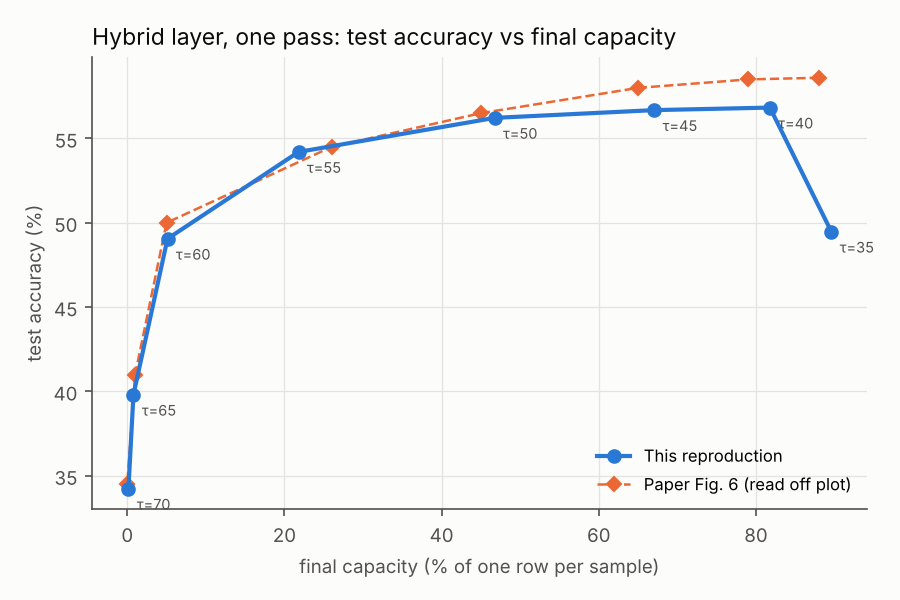
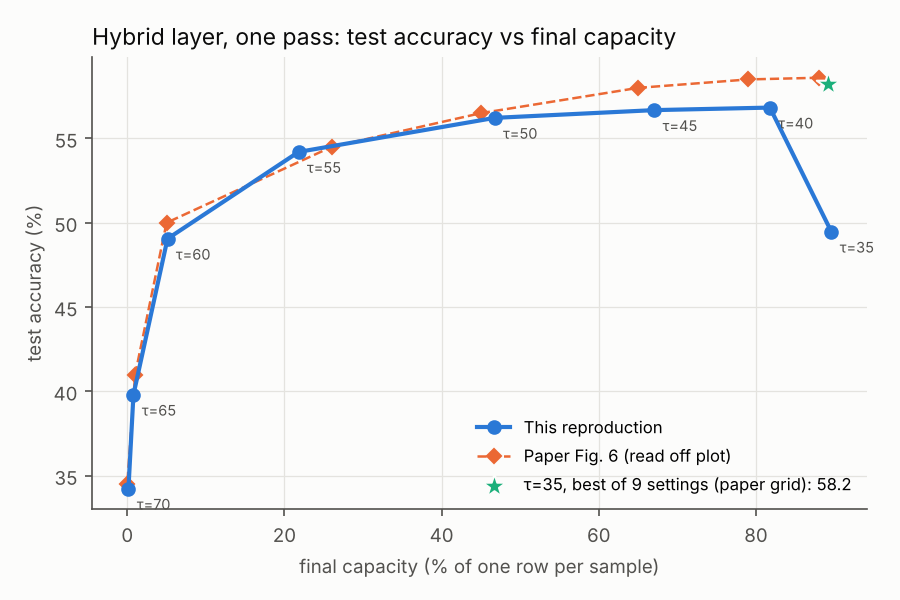
Figures: DeltaNet curves, L = 2 GWS at 50 epochs, tuned tau = 35 point
Claude-Session: https://claude.ai/code/session_01RLNGfWX7myMbpBLDNmpMEp

Changed region(s): [[0.5289, 0.75, 0.9644, 0.84], [0.5289, 0.69, 0.7467, 0.72], [0.9022, 0.12, 0.9333, 0.15]]

diff --git a/experiments/plots.py b/experiments/plots.py
@@ -218,8 +218,9 @@ def fig_hybrid(runs, out):
 
 
 def fig_multi_epoch(runs, out):
-  panels = [('CIFAR-10', [k for k in runs if k.endswith(('_50ep', '_50ep_bf16'))]),
-            ('CIFAR-100', [k for k in runs if k.endswith(('_50ep_c100', '_50ep_c100_bf16'))])]
+  full = lambda k: 'sub5k' not in k                         # 5,000-image runs: fig_fig5_scaled
+  panels = [('CIFAR-10', [k for k in runs if k.endswith(('_50ep', '_50ep_bf16')) and full(k)]),
+            ('CIFAR-100', [k for k in runs if k.endswith(('_50ep_c100', '_50ep_c100_bf16')) and full(k)])]
   panels = [(t, ks) for t, ks in panels if ks]
   if not panels:
     return
